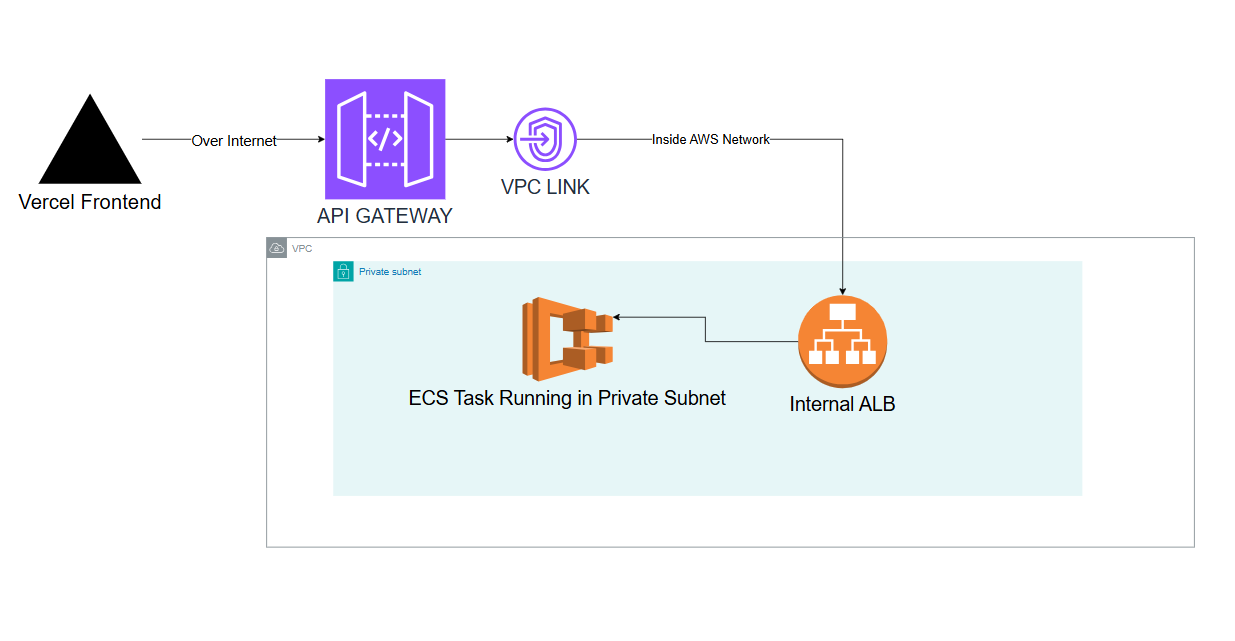
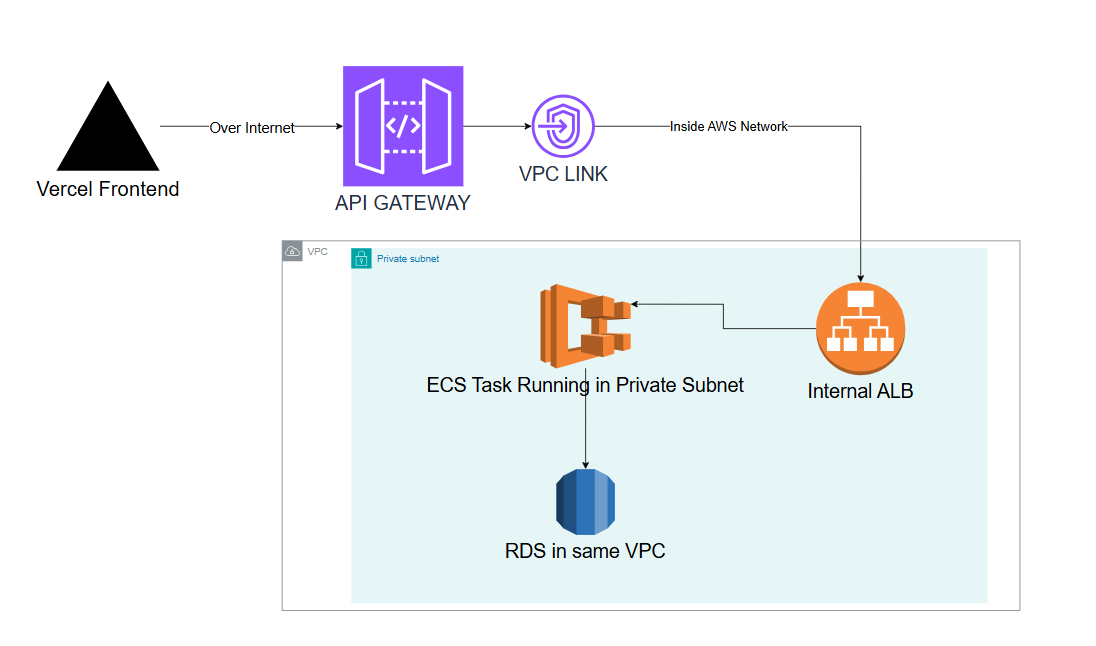
added the database as well

Changed region(s): [[0.0, 0.0936, 0.9617, 0.936], [0.8996, 0.936, 0.9307, 0.9672], [0.2482, 0.8424, 0.2792, 0.8736]]

diff --git a/README.md b/README.md
@@ -8,7 +8,7 @@
 - **Backend**: AWS API Gateway (HTTP API) exposed publicly, connected to VPC Link.
 - **VPC Link**: Connects API Gateway to an internal ALB.
 - **Internal ALB**: Routes traffic to ECS services deployed in private subnets.
-- **ECS Services**: Backend microservices (auth-service, order-service, inventory-service) deployed inside ECS, running on Fargate/EC2.
+- **ECS Services**: Backend microservices (eShop, Pharmacy & Doctor) deployed inside ECS, running on Fargate/EC2.
 - **Communication**:
   - Frontend to Backend: Via API Gateway.
   - Backend to Backend: Via internal ALB using path-based routing.
@@ -21,7 +21,21 @@
 | ECS for Backend        | Slightly higher cost (for Fargate) | No server management, easy scaling, can be switch to EC2 if needed |
 | Internal ALB           | -                                  | Secure private routing and health checks                           |
 | Private Subnets        | -                                  | Maximum backend security                                           |
-| Vercel Frontend        | Separate hosting                   | Best-in-class frontend CDN and performance                         |
+
+---
+
+## Database
+
+- **Database**: AWS RDS (MySQL/Postgres) deployed in private subnets.
+- **Connectivity**:
+  - ECS Tasks (running in private subnets) securely connect to RDS via private VPC networking.
+  - No public access to RDS.
+  - Security Groups:
+    - ECS SG → RDS SG (port 3306/5432 open)
+    - RDS SG does not allow traffic from the internet.
+- **Credentials Management**:
+  - RDS credentials stored in AWS Secrets Manager (or SSM Parameter Store).
+  - Applications fetch secrets dynamically without hardcoding DB passwords.
 
 ---
 
